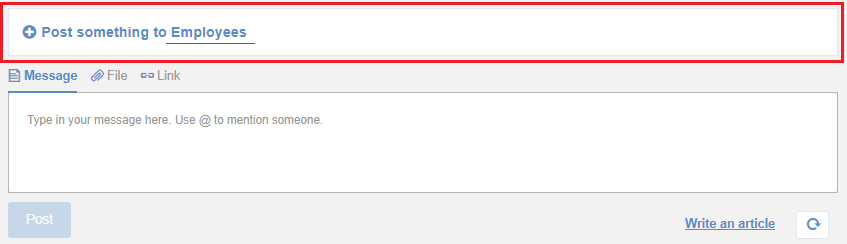
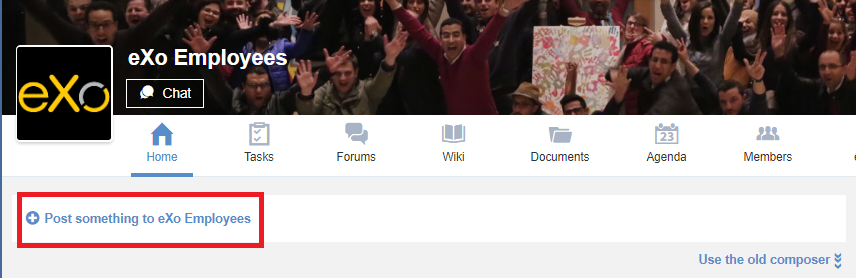
M29 New composer documentation

diff --git a/docs/GettingStarted.rst b/docs/GettingStarted.rst
@@ -1661,9 +1661,12 @@ the link.
 Posting in the activity stream via the New Composer
 ~~~~~~~~~~~~~~~~~~~~~~~~~~~~~~~~~~~~~~~~~~~~~~~~~~~~	
 
-A new way to share in the activity stream is available via a clickable text "Try the new composer" just above the current home page and space's composers.
+A new way to share in the activity stream is available via a clickable text "Post something to your network" from home page and "Post something to 'Space Name' " from space's home page.
 
 |image220|
+
+|image238|
+
 
 Once you click on the text, a drawer allowing you to type and post a short message is displayed. You can write up to 2000 characters and post to your connections or a space's audience.
 
@@ -1695,6 +1698,7 @@ You can add a text message or not and then click on 'Post' button to share the f
 
 .. note:: If the upload is still in progress when you apply the attachments, it will continue in the background. An animation around the attachments counter badge indicates progress. Note that the post button will be disabled until all files are uploaded.
 
+
 Selecting destination folder for uploaded files
 ````````````````````````````````````````````````
 
@@ -1722,6 +1726,13 @@ If the attached files are a mix between uploaded (by drag and drop or manually) 
 Home page composer: `/Public/Activity Stream Documents` under the `Personal Documents` drive.
 Space composer : `/Activity Stream Documents` under the space’s drive.
 
+You can create a new folder from the select folder drawer by clicking on the appropriate icon:
+
+|image239|
+
+You only have to set the name of the automatically created folder, then enter to register the action. 
+
+|image240|
 
 Posting links in the activity stream
 -------------------------------------
@@ -3011,4 +3022,7 @@ to display the original timestamp of the comment.
 .. |image235| image:: images/new_composer/selected_files.png
 .. |image236| image:: images/new_composer/selected_des_file.png
 .. |image237| image:: images/new_composer/mix_uploaded_selected.png
+.. |image238| image:: images/new_composer/new_composer_space.png
+.. |image239| image:: images/new_composer/create_new_folder.png
+.. |image240| image:: images/new_composer/create_new_folder.gif
 
